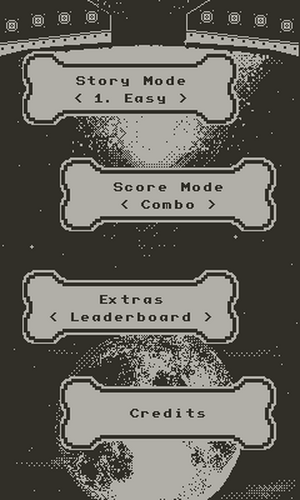
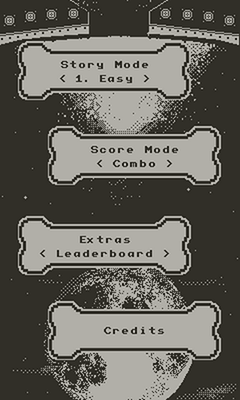
increased version: 1.3.1 with 90° rotation

diff --git a/src/components/galleryView.vue b/src/components/galleryView.vue
@@ -5,15 +5,21 @@
 
   import { Carousel } from 'ant-design-vue';
   import { type CarouselRef } from 'ant-design-vue/es/carousel';
-  import {ref, watch} from "vue";
+  import {computed, ref, watch} from "vue";
   import gameGiftUnwrap from "@/assets/gameGiftUnwrap.gif";
+  import {useRoute} from "vue-router";
+  import {usePlaydateStore} from "@/stores/pdStore";
 
   const galleryCarousel = ref<CarouselRef>()
 
   const calendarStore = useCalendarStore();
   const galleryStore = useGalleryStore();
   const { galleryIndex } = storeToRefs(galleryStore);
+  const playdateStore = usePlaydateStore();
 
+  const isPlaydateRotated = computed(() => {
+    return calendarStore.currentDayRotated && playdateStore.showGallery
+  })
 /*
   console.log('galleryStore screenshots');
   console.log(galleryStore.currentScreenshots);
@@ -27,23 +33,27 @@
     { deep: true }
   )
 
+  function getScreenShot(index: number) {
+    return galleryStore.currentScreenshots[index] || '';
+  }
 </script>
 
 <template>
   <div id="galleryView"
-       class="gallery">
+       class="gallery"
+       :class="isPlaydateRotated ? 'rotatedGallery' : ''" >
 
     <img v-if="calendarStore.dayIsOpening"
          class="gameGiftUnwrap"
          :src="gameGiftUnwrap" alt="game unwrapping present gif">
 
     <Carousel v-show="!calendarStore.dayIsOpening"
-              ref="galleryCarousel" >
-
+              class=""
+              ref="galleryCarousel">
       <div v-for="(screenNumber, index) in galleryStore.screenshotAmount">
 
         <img class="galleryImage"
-              :src="galleryStore.currentScreenshots[index]"
+              :src="getScreenShot(index)"
              :alt="`screenshots ${index}`" />
       </div>
 
@@ -51,6 +61,7 @@
 
   </div>
 </template>
+
 
 <style scoped>
 
@@ -66,5 +77,12 @@
     width: 100%;
     height: 100%;
   }
+
+  .rotatedGallery {
+    height: 400px !important;
+    width: 240px !important;
+    padding: 48px 0 0 256px !important;
+  }
+
 
 </style>

diff --git a/src/components/consoleView.vue b/src/components/consoleView.vue
@@ -8,9 +8,11 @@
   import useBreakpoint from "ant-design-vue/es/_util/hooks/useBreakpoint";
   import {usePlaydateStore} from "@/stores/pdStore";
   import {storeToRefs} from "pinia";
+  import {useCalendarStore} from "@/stores/calendarStore";
 
-  const pdStore = usePlaydateStore();
-  const { themeDark } = storeToRefs(pdStore);
+  const calendarStore = useCalendarStore();
+  const playdateStore = usePlaydateStore();
+  const { themeDark } = storeToRefs(playdateStore);
 
   const emit = defineEmits<{
     dPadClick: [upOrDown: number, leftOrRight: number] // named tuple syntax
@@ -44,11 +46,16 @@
   const breaks: Ref<ScreenMap> = useBreakpoint();
   const xsAndSmLayout = computed(() => (breaks.value.xs || breaks.value.sm) && !breaks.value.md)
 
+  const isPlaydateRotated = computed(() => {
+    return calendarStore.currentDayRotated && playdateStore.showGallery
+  })
+  
 </script>
 
 <template>
   <div id="consoleView"
-       class="console" >
+       class="console"
+        :class="isPlaydateRotated ? 'rotatedConsole' : ''">
 
     <img class="playdateFrame"
          :src="playdateConsole"
@@ -121,6 +128,7 @@
     position: relative;
     height: 100%;
     z-index: 10;
+    transition: 0.3s all;
   }
 
   .buttonOverlay,
@@ -210,5 +218,7 @@
     left: -2px;
   }
 
-
+  .rotatedConsole {
+    transform: rotate(90deg);
+  }
 </style>

diff --git a/src/stores/calendarStore.ts b/src/stores/calendarStore.ts
@@ -33,7 +33,11 @@ export const useCalendarStore = defineStore(CALENDAR_STORE, () => {
     {
       mergeDefaults: ((storageValue: consistent, defaults: consistent) => {
         // todo logic for 2023 & 2024, etc.
-        const calendarIndex = storageValue.calendarIndex < 0 ? defaults.calendarIndex : storageValue.calendarIndex
+        let calendarIndex = defaults.calendarIndex;
+        if (storageValue.calendarIndex && storageValue.calendarIndex >= 0) {
+          calendarIndex = storageValue.calendarIndex
+        }
+
         return {
           calendarIndex: calendarIndex > daysAmount ? daysAmount : calendarIndex,
           openedDays: storageValue.openedDays ? storageValue.openedDays : defaults.openedDays,
@@ -202,8 +206,16 @@ export const useCalendarStore = defineStore(CALENDAR_STORE, () => {
    }
   }
 
+  const rotatedDays = [22];
+
+  const currentDayRotated = computed(() => {
+
+    const dayNumber = calendarIndex.value;
+    return rotatedDays.includes(dayNumber)
+  })
+
   return {
-    calendarIndex, openedDays, dayIsOpening,
+    calendarIndex, openedDays, dayIsOpening, currentDayRotated,
     setCalendarIndex, updateCalendarIndex,
     openDay, triggerWaitMessage, isCalendarReady,
     currentDayUnlocked, isCurrentDayUnlockable,

diff --git a/src/stores/galleryStore.ts b/src/stores/galleryStore.ts
@@ -24,17 +24,26 @@ export const useGalleryStore = defineStore('galleryStore', () => {
 
   const currentScreenshots : ComputedRef<any[]> = computed(() => {
     const indexDiff = calendarStore.calendarIndex - 1;
-    return [screenshotsCards.value[indexDiff], ...screenshots.value[indexDiff]];
+    
+    if (indexDiff >= 0) {
+      return [screenshotsCards.value[indexDiff], ...screenshots.value[indexDiff]];
+    }
+
+    return [];
   });
 
   const screenshotAmount : ComputedRef<number> = computed(() => currentScreenshots.value.length);
 
-  const updateGalleryIndex = (leftOrRight: number) => {
+  const updateGalleryIndex = (upOrDown: number, leftOrRight: number) => {
 
     // const screenshotAmount = currentScreenshots.value.length;
 
     if (leftOrRight !== 0) {
       sIndex.value += leftOrRight;
+    }
+
+    if (upOrDown !== 0) {
+      sIndex.value += upOrDown;
     }
 
     if (sIndex.value < 0) {

diff --git a/src/components/playdatePageGrid.vue b/src/components/playdatePageGrid.vue
@@ -43,6 +43,10 @@ const emit = defineEmits<{
   buttonClick: [buttonName: string]
 }>()
 
+const isPlaydateRotated = computed(() => {
+  return calendarStore.currentDayRotated && playdateStore.showGallery
+})
+
 </script>
 
 <template>
@@ -86,6 +90,7 @@ const emit = defineEmits<{
         </GalleryView>
 
         <img class="pdBackground"
+             :class="isPlaydateRotated ? 'rotatedBg' : ''"
              :src="pgBg"
              alt="background playdate screen" />
 
@@ -248,5 +253,10 @@ const emit = defineEmits<{
   }
 
 
+  .rotatedBg {
+    height: 410px !important;
+    width: 245px !important;
+    padding: 45px 0 0 264px !important;
+  }
 
 </style>

diff --git a/src/App.vue b/src/App.vue
@@ -39,7 +39,7 @@ const catchPad = (upOrDown: number, leftOrRight: number) => {
   }
 
   if (playdateStore.showGallery) {
-    galleryStore.updateGalleryIndex(leftOrRight);
+    galleryStore.updateGalleryIndex(upOrDown, leftOrRight);
 /*
     console.log('screenshotIndex')
     console.log(galleryStore.screenshotIndex)
